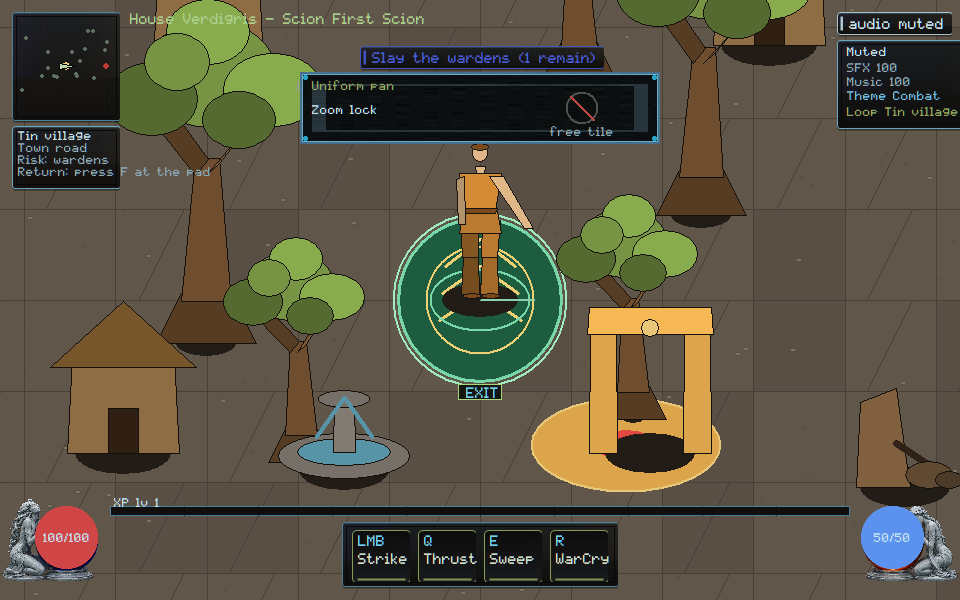
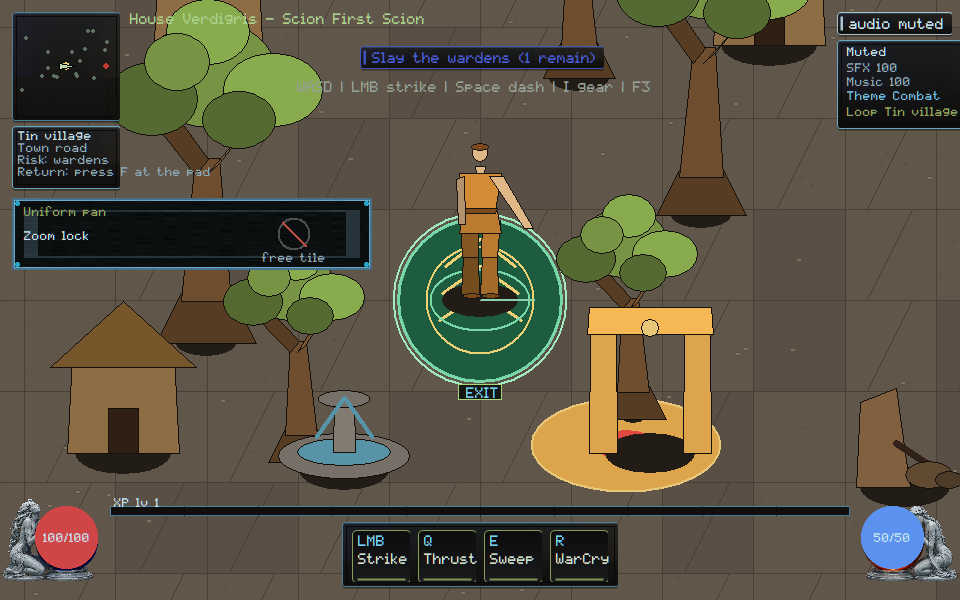
native: park Uniform pan off WASD and Tin village so covering combat HUD cannot certify

Changed region(s): [[0.0, 0.33, 0.4062, 0.45], [0.3125, 0.12, 0.6875, 0.24]]

diff --git a/native/client/main.cpp b/native/client/main.cpp
@@ -8536,8 +8536,12 @@ void paint_zoom_invariance_review_strip(ClientState& state, HDC dc, const RECT& 
   const int s = hud_scale(static_cast<int>(bounds.bottom));
   const int pane_w = 360 * s;
   const int pane_h = 72 * s;
-  const int left = (static_cast<int>(bounds.right) - pane_w) / 2;
-  const int top = 72 * s;
+  const HudRect parked =
+      park_review_strip(state, static_cast<int>(bounds.right),
+                        static_cast<int>(bounds.bottom), pane_w, pane_h);
+  const int left = parked.x;
+  const int top = parked.y;
+  state.hud_rect_trace.push_back({"zoom-strip", parked});
   RECT pane{left, top, left + pane_w, top + pane_h};
   if (!draw_framekit_nine(state.billboards, dc, state.billboards.fk_panel, pane))
     skin::panel(dc, pane, skin::kVerdigris, 235, 8.0f);
@@ -11957,6 +11961,30 @@ int scenario_zoom_invariance() {
   scenario_check(uniform_pan && zoom_lock,
                  "zoom-invariance: live HUD names Uniform pan and Zoom lock");
   scenario_check(free_tile, "zoom-invariance: live HUD rejects free tile");
+  {
+    auto trace_find = [](const ClientState& s,
+                         const char* label) -> const HudRect* {
+      for (const auto& entry : s.hud_rect_trace)
+        if (entry.first == label) return &entry.second;
+      return nullptr;
+    };
+    const HudRect* strip = trace_find(state, "zoom-strip");
+    const HudRect* ctrl = trace_find(state, "controls");
+    const HudRect* objective = trace_find(state, "objective");
+    const HudRect* route = trace_find(state, "route-card");
+    const HudRect* life = trace_find(state, "orb-life");
+    const bool covers =
+        (strip && ctrl && hud_rects_overlap(*strip, *ctrl)) ||
+        (strip && objective && hud_rects_overlap(*strip, *objective)) ||
+        (strip && route && hud_rects_overlap(*strip, *route)) ||
+        (strip && life && hud_rects_overlap(*strip, *life));
+    scenario_check(
+        camera2d::zoom_strip_covers_hud_fails_review(true),
+        "zoom-invariance: covering WASD, the objective, Tin village, or Life is the anti-pattern");
+    scenario_check(
+        !camera2d::zoom_strip_covers_hud_fails_review(covers),
+        "zoom-invariance: Uniform pan stays off WASD, the objective, Tin village, and Life");
+  }
   return 0;
 }
 

diff --git a/native/client/camera2d.hpp b/native/client/camera2d.hpp
@@ -62,6 +62,7 @@ inline double draw_order_key(double wy, double wx) { return wy * 1e6 + wx; }
 
 inline const char* owner_uniform_pan_label() { return "Uniform pan"; }
 inline const char* owner_zoom_lock_label() { return "Zoom lock"; }
+inline bool zoom_strip_covers_hud_fails_review(bool overlap) { return overlap; }
 inline const char* owner_kit_lock_label() { return "Kit lock"; }
 inline const char* owner_same_delta_label() { return "Same delta"; }
 

diff --git a/docs/execution/CROSSWALK.md b/docs/execution/CROSSWALK.md
@@ -41,7 +41,7 @@ Cursor evidence notes.
 | VG-UI-006 | extend | TASK-0145/0177 + 0190/0197/0201 — **do not duplicate** |
 | VG-UI-007 | extend | TASK-0159 INTEGRATED, 0118 READY, 0207; `hud-pane-readability` at 960/1366/3440 + tree/character keep-out + `hud-scale-floor` + live window; TASK-0159 folder capture cannot certify; clipped C or Esc closes cannot certify; clipped I or Esc closes gear footer cannot certify; clipped DEF/LVL cannot certify; VG-UI-006 Owner Demo not duplicated |
 | VG-UI-008 | new | XInput tick path + glyphs (`pad-path`); not mouse emulation |
-| VG-ART-001/002/004 | extend | TASK-0141 INTEGRATED — village kit + collision-proxy ops (`kit-chunk`); not artist-local collision; Adult camera / Jointed warden stay off WASD/objective/Tin village/Life |
+| VG-ART-001/002/004 | extend | TASK-0141 INTEGRATED — village kit + collision-proxy ops (`kit-chunk`); not artist-local collision; Adult camera / Jointed warden / Uniform pan stay off WASD/objective/Tin village/Life |
 | VG-ART-003/006 | extend | TASK-0122 INTEGRATED; 0173/0174 READY; 0186/0187 BRIDGE_PREP — Cursor paints melee **poses** (VG-ART-003) and WarCry **weave labels** plus Phase A spawn/fade (VG-ART-006) without taking TASK-0173 models or re-speccing TASK-0108; Hit flash stays off WASD/objective/Tin village/Life |
 | VG-ART-005 | extend | TASK-0182 AUTO_RELEASE, 0184; `held-item` world attachment + `loot-to-bank` pickup-to-equip hold; paper-doll seat alone cannot pass; World hold / Unarmed first stay off WASD, the objective, Tin village, and Life |
 | VG-ART-007/008 | extend | TASK-0206/0205/0207 — Owner Demo, do not duplicate |
@@ -182,7 +182,8 @@ strip paints Adult camera / Bronze palette and parks off WASD, the
 objective, Tin village, and Life. `first-fight` owner strip paints
 Jointed warden / Snout claws and parks off WASD, the objective,
 Tin village, and Life. Covering those combat surfaces cannot certify.
-`zoom-invariance` owner strip paints Uniform pan / Zoom lock.
+`zoom-invariance` owner strip paints Uniform pan / Zoom lock and parks
+off WASD, the objective, Tin village, and Life.
 `move-and-camera` owner strip paints Kit lock / Same delta. An external
 concept-art token cannot substitute, a skeleton `art: PNG billboards
 loaded` chip cannot count as the composition sheet, a chibi (1/3) head

diff --git a/docs/execution/CROSSWALK_REGISTRY.md b/docs/execution/CROSSWALK_REGISTRY.md
@@ -127,7 +127,7 @@ not implemented here.
 | VG-GPU-006 | G3 | new | material-light |
 | VG-GPU-007 | G2 | new | gpu-capture + PNG R/B honesty; swapped still cannot certify |
 | VG-GPU-008 | G3 | new | gpu-recover |
-| VG-ART-001 | G1 | extend | visual-target Adult camera stays off WASD/objective/Tin village/Life; first-fight Jointed warden stays off WASD/objective/Tin village/Life; zoom-invariance uniform pan; move-and-camera kit lock |
+| VG-ART-001 | G1 | extend | visual-target Adult camera stays off WASD/objective/Tin village/Life; first-fight Jointed warden stays off WASD/objective/Tin village/Life; zoom-invariance Uniform pan stays off WASD/objective/Tin village/Life; move-and-camera kit lock |
 | VG-ART-002 | G2 | extend | bronze-stone family |
 | VG-ART-003 | G2 | extend | attack-poses; combat-juice Hit flash stays off WASD/objective/Tin village/Life; not TASK-0108 |
 | VG-ART-004 | G2 | extend | kit-chunk: hut, ruin, fountain, gate in spawn capture |

diff --git a/orchestration/CURSOR_KIMI_LANES.md b/orchestration/CURSOR_KIMI_LANES.md
@@ -1101,3 +1101,15 @@ Please move off that branch before taking a new native path.
   remain yours. GOV-002 still unstamped.
   Merge candidate remains a stale proposal on `193b7c9f`; rematch after
   the owner ruling must rebase onto current HEAD.
+
+## Cursor reply (2026-09-06, Uniform pan off WASD and Tin village)
+
+- **Lease:** `main.cpp` still **ACTIVE**. `remote_session.cpp` stays
+  **RELEASED**. Do not re-spec TASK-0108 core/wire (`3b929637`).
+- **Landed this push:** VG-ART-001/007 — Uniform pan parks off WASD,
+  the objective, Tin village, and Life. Covering those cannot certify.
+  Free tile still rejected. Captures viewed. Not Owner Demo.
+- **Stay off** `native/client/main.cpp` and `docs/execution/**`. SEC/CORE
+  remain yours. GOV-002 still unstamped.
+  Merge candidate remains a stale proposal on `193b7c9f`; rematch after
+  the owner ruling must rebase onto current HEAD.

diff --git a/docs/rebuild/HANDOFF.md b/docs/rebuild/HANDOFF.md
@@ -1,5 +1,14 @@
 # Native reconstitution handoff
 
+## 2026-09-06 — Uniform pan off WASD and Tin village (Cursor)
+
+- VG-ART-001 / VG-UI-007: Uniform pan / Zoom lock parks off WASD, the
+  objective, Tin village, and Life. Covering those combat surfaces
+  cannot certify. Free tile still rejected. Owner Demo journeys not
+  duplicated.
+- Scenario `zoom-invariance` PASS. Capture viewed. Not Owner Demo. Not
+  TASK-0108.
+
 ## 2026-09-06 — Adult camera off WASD and Tin village (Cursor)
 
 - VG-ART-001 / VG-UI-007: Adult camera / Bronze palette parks off WASD,
